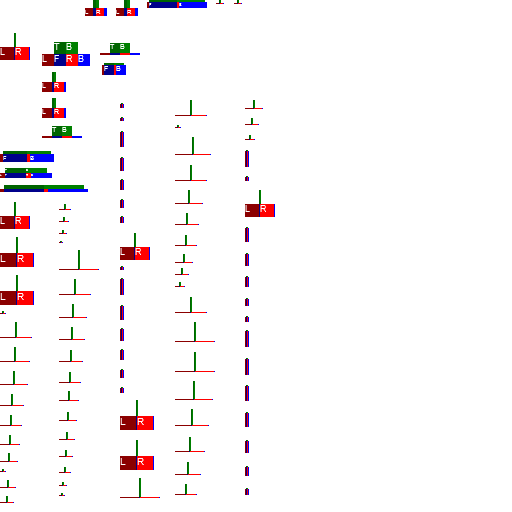
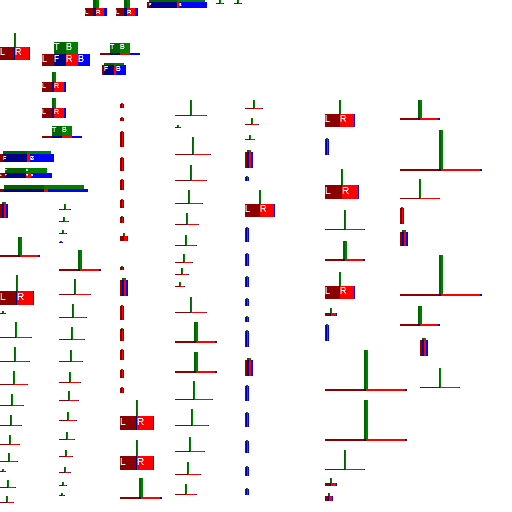
Interceptor final model

diff --git a/techne/TIE Interceptor.java b/techne/TIE Interceptor.java
@@ -1,4 +1,4 @@
-// Date: 11/24/2015 5:37:18 PM
+// Date: 11/24/2015 10:18:17 PM
 // Template version 1.1
 // Java generated by Techne
 // Keep in mind that you still need to fill in some blanks
@@ -114,6 +114,28 @@ public class ModelNew extends ModelBase
     ModelRenderer Wing_Section_83;
     ModelRenderer Wing_Section_84;
     ModelRenderer Wing_Section_85;
+    ModelRenderer Wing_Section_86;
+    ModelRenderer Wing_Section_87;
+    ModelRenderer Wing_Section_88;
+    ModelRenderer Wing_Section_89;
+    ModelRenderer Wing_Section_90;
+    ModelRenderer Wing_Section_91;
+    ModelRenderer Wing_Section_92;
+    ModelRenderer Wing_Section_93;
+    ModelRenderer Wing_Section_94;
+    ModelRenderer Wing_Section_95;
+    ModelRenderer Wing_Section_96;
+    ModelRenderer Wing_Section_97;
+    ModelRenderer Wing_Section_98;
+    ModelRenderer Wing_Section_99;
+    ModelRenderer Wing_Section_100;
+    ModelRenderer Wing_Section_101;
+    ModelRenderer Wing_Section_102;
+    ModelRenderer Wing_Section_103;
+    ModelRenderer Wing_Section_104;
+    ModelRenderer Wing_Section_105;
+    ModelRenderer Wing_Section_106;
+    ModelRenderer Wing_Section_107;
   
   public ModelNew()
   {
@@ -211,17 +233,17 @@ public class ModelNew extends ModelBase
       Body_Panel_9.mirror = true;
       setRotation(Body_Panel_9, 0F, 0F, 0F);
       Wing_Section_1 = new ModelRenderer(this, 0, 202);
-      Wing_Section_1.addBox(-19.3F, -22.5F, -5F, 1, 13, 14);
+      Wing_Section_1.addBox(17.65F, -23F, 8F, 2, 14, 2);
       Wing_Section_1.setRotationPoint(0F, 22F, 0F);
       Wing_Section_1.setTextureSize(64, 32);
       Wing_Section_1.mirror = true;
       setRotation(Wing_Section_1, 0F, 0F, 0F);
       Wing_Section_2 = new ModelRenderer(this, 0, 237);
-      Wing_Section_2.addBox(-28.55F, -21.1F, -15F, 1, 14, 16);
+      Wing_Section_2.addBox(27.1F, -21.6F, -16F, 2, 2, 18);
       Wing_Section_2.setRotationPoint(0F, 22F, 0F);
       Wing_Section_2.setTextureSize(64, 32);
       Wing_Section_2.mirror = true;
-      setRotation(Wing_Section_2, 0F, 0F, 0.6283185F);
+      setRotation(Wing_Section_2, 0F, 0F, -0.6283185F);
       Wing_Section_3 = new ModelRenderer(this, 0, 275);
       Wing_Section_3.addBox(-9.875F, -18.8F, -15F, 1, 14, 16);
       Wing_Section_3.setRotationPoint(0F, 22F, 0F);
@@ -319,7 +341,7 @@ public class ModelNew extends ModelBase
       Wing_Section_18.mirror = true;
       setRotation(Wing_Section_18, 0F, 0F, -0.6283185F);
       Wing_Section_19 = new ModelRenderer(this, 59, 250);
-      Wing_Section_19.addBox(-9.875F, 5.65F, -33.25F, 1, 1, 19);
+      Wing_Section_19.addBox(-10.4F, 5.5F, -33.7F, 2, 2, 19);
       Wing_Section_19.setRotationPoint(0F, 22F, 0F);
       Wing_Section_19.setTextureSize(64, 32);
       Wing_Section_19.mirror = true;
@@ -439,7 +461,7 @@ public class ModelNew extends ModelBase
       Wing_Section_38.mirror = true;
       setRotation(Wing_Section_38, 0.5279621F, 0F, 0.6283185F);
       Wing_Section_39 = new ModelRenderer(this, 120, 233);
-      Wing_Section_39.addBox(-19F, -22.5F, -5F, 1, 13, 14);
+      Wing_Section_39.addBox(18.15F, -18.5F, -9F, 1, 5, 3);
       Wing_Section_39.setRotationPoint(0F, 22F, 0F);
       Wing_Section_39.setTextureSize(64, 32);
       Wing_Section_39.mirror = true;
@@ -451,7 +473,7 @@ public class ModelNew extends ModelBase
       Wing_Section_40.mirror = true;
       setRotation(Wing_Section_40, -0.5279621F, 0F, 0.6283185F);
       Wing_Section_41 = new ModelRenderer(this, 120, 278);
-      Wing_Section_41.addBox(-9.875F, -20.7F, -2.525F, 1, 16, 1);
+      Wing_Section_41.addBox(-10.4F, -21F, -2.6F, 2, 16, 2);
       Wing_Section_41.setRotationPoint(0F, 22F, 0F);
       Wing_Section_41.setTextureSize(64, 32);
       Wing_Section_41.mirror = true;
@@ -499,7 +521,7 @@ public class ModelNew extends ModelBase
       Wing_Section_48.mirror = true;
       setRotation(Wing_Section_48, 0F, 0F, -0.6283185F);
       Wing_Section_49 = new ModelRenderer(this, 120, 478);
-      Wing_Section_49.addBox(-28.55F, -25.635F, -15.6F, 1, 1, 19);
+      Wing_Section_49.addBox(-29.1F, -26.635F, -15.9F, 2, 2, 19);
       Wing_Section_49.setRotationPoint(0F, 22F, 0F);
       Wing_Section_49.setTextureSize(64, 32);
       Wing_Section_49.mirror = true;
@@ -571,13 +593,13 @@ public class ModelNew extends ModelBase
       Wing_Section_60.mirror = true;
       setRotation(Wing_Section_60, 0F, 0F, 0.6283185F);
       Wing_Section_61 = new ModelRenderer(this, 175, 322);
-      Wing_Section_61.addBox(8.85F, 5.65F, -33.2F, 1, 1, 19);
+      Wing_Section_61.addBox(8.35F, 5.5F, -33.8F, 2, 2, 19);
       Wing_Section_61.setRotationPoint(0F, 22F, 0F);
       Wing_Section_61.setTextureSize(64, 32);
       Wing_Section_61.mirror = true;
       setRotation(Wing_Section_61, -0.7548549F, 0F, 0.6283185F);
       Wing_Section_62 = new ModelRenderer(this, 175, 352);
-      Wing_Section_62.addBox(27.6F, -25.6F, -15.55F, 1, 1, 19);
+      Wing_Section_62.addBox(27.1F, -26.6F, -15.9F, 2, 2, 19);
       Wing_Section_62.setRotationPoint(0F, 22F, 0F);
       Wing_Section_62.setTextureSize(64, 32);
       Wing_Section_62.mirror = true;
@@ -631,11 +653,11 @@ public class ModelNew extends ModelBase
       Wing_Section_70.mirror = true;
       setRotation(Wing_Section_70, 0.7548549F, 0F, -0.6283185F);
       Wing_Section_71 = new ModelRenderer(this, 245, 150);
-      Wing_Section_71.addBox(-28.55F, -17.75F, 10.5F, 1, 16, 1);
+      Wing_Section_71.addBox(8.35F, -21F, -2.6F, 2, 16, 2);
       Wing_Section_71.setRotationPoint(0F, 22F, 0F);
       Wing_Section_71.setTextureSize(64, 32);
       Wing_Section_71.mirror = true;
-      setRotation(Wing_Section_71, 0.5279621F, 0F, 0.6283185F);
+      setRotation(Wing_Section_71, -0.5279621F, 0F, 0.6283185F);
       Wing_Section_72 = new ModelRenderer(this, 245, 176);
       Wing_Section_72.addBox(27.6F, -9.1F, 4.45F, 1, 4, 1);
       Wing_Section_72.setRotationPoint(0F, 22F, 0F);
@@ -685,7 +707,7 @@ public class ModelNew extends ModelBase
       Wing_Section_79.mirror = true;
       setRotation(Wing_Section_79, -0.5279621F, 0F, 0.6283185F);
       Wing_Section_80 = new ModelRenderer(this, 245, 358);
-      Wing_Section_80.addBox(27.6F, -17.75F, 10.45F, 1, 16, 1);
+      Wing_Section_80.addBox(27.1F, -17.75F, 10.45F, 2, 16, 2);
       Wing_Section_80.setRotationPoint(0F, 22F, 0F);
       Wing_Section_80.setTextureSize(64, 32);
       Wing_Section_80.mirror = true;
@@ -720,6 +742,138 @@ public class ModelNew extends ModelBase
       Wing_Section_85.setTextureSize(64, 32);
       Wing_Section_85.mirror = true;
       setRotation(Wing_Section_85, 0.5279621F, 0F, -0.6283185F);
+      Wing_Section_86 = new ModelRenderer(this, 325, 100);
+      Wing_Section_86.addBox(-19.3F, -22.5F, -5F, 1, 13, 14);
+      Wing_Section_86.setRotationPoint(0F, 22F, 0F);
+      Wing_Section_86.setTextureSize(64, 32);
+      Wing_Section_86.mirror = true;
+      setRotation(Wing_Section_86, 0F, 0F, 0F);
+      Wing_Section_87 = new ModelRenderer(this, 325, 138);
+      Wing_Section_87.addBox(-28.55F, -17.75F, 10.5F, 1, 16, 1);
+      Wing_Section_87.setRotationPoint(0F, 22F, 0F);
+      Wing_Section_87.setTextureSize(64, 32);
+      Wing_Section_87.mirror = true;
+      setRotation(Wing_Section_87, 0.5279621F, 0F, 0.6283185F);
+      Wing_Section_88 = new ModelRenderer(this, 325, 169);
+      Wing_Section_88.addBox(-28.55F, -21.1F, -15F, 1, 14, 16);
+      Wing_Section_88.setRotationPoint(0F, 22F, 0F);
+      Wing_Section_88.setTextureSize(64, 32);
+      Wing_Section_88.mirror = true;
+      setRotation(Wing_Section_88, 0F, 0F, 0.6283185F);
+      Wing_Section_89 = new ModelRenderer(this, 325, 210);
+      Wing_Section_89.addBox(-28.55F, -25.635F, -15.6F, 1, 1, 19);
+      Wing_Section_89.setRotationPoint(0F, 22F, 0F);
+      Wing_Section_89.setTextureSize(64, 32);
+      Wing_Section_89.mirror = true;
+      setRotation(Wing_Section_89, 0.7548549F, 0F, 0.6283185F);
+      Wing_Section_90 = new ModelRenderer(this, 325, 241);
+      Wing_Section_90.addBox(8.35F, -6.6F, -16F, 2, 2, 18);
+      Wing_Section_90.setRotationPoint(0F, 22F, 0F);
+      Wing_Section_90.setTextureSize(64, 32);
+      Wing_Section_90.mirror = true;
+      setRotation(Wing_Section_90, 0F, 0F, 0.6283185F);
+      Wing_Section_91 = new ModelRenderer(this, 325, 272);
+      Wing_Section_91.addBox(-19F, -22.5F, -5F, 1, 13, 14);
+      Wing_Section_91.setRotationPoint(0F, 22F, 0F);
+      Wing_Section_91.setTextureSize(64, 32);
+      Wing_Section_91.mirror = true;
+      setRotation(Wing_Section_91, 0F, 0F, 0F);
+      Wing_Section_92 = new ModelRenderer(this, 325, 308);
+      Wing_Section_92.addBox(18.15F, -17.5F, -7F, 1, 3, 5);
+      Wing_Section_92.setRotationPoint(0F, 22F, 0F);
+      Wing_Section_92.setTextureSize(64, 32);
+      Wing_Section_92.mirror = true;
+      setRotation(Wing_Section_92, 0F, 0F, 0F);
+      Wing_Section_93 = new ModelRenderer(this, 325, 324);
+      Wing_Section_93.addBox(-9.875F, -20.7F, -2.525F, 1, 16, 1);
+      Wing_Section_93.setRotationPoint(0F, 22F, 0F);
+      Wing_Section_93.setTextureSize(64, 32);
+      Wing_Section_93.mirror = true;
+      setRotation(Wing_Section_93, -0.5279621F, 0F, -0.6283185F);
+      Wing_Section_94 = new ModelRenderer(this, 325, 350);
+      Wing_Section_94.addBox(-29.1F, -8.6F, -29.8F, 2, 2, 39);
+      Wing_Section_94.setRotationPoint(0F, 22F, 0F);
+      Wing_Section_94.setTextureSize(64, 32);
+      Wing_Section_94.mirror = true;
+      setRotation(Wing_Section_94, 0F, 0F, 0.6283185F);
+      Wing_Section_95 = new ModelRenderer(this, 325, 400);
+      Wing_Section_95.addBox(8.35F, -19.6F, -29.8F, 2, 2, 39);
+      Wing_Section_95.setRotationPoint(0F, 22F, 0F);
+      Wing_Section_95.setTextureSize(64, 32);
+      Wing_Section_95.mirror = true;
+      setRotation(Wing_Section_95, 0F, 0F, 0.6283185F);
+      Wing_Section_96 = new ModelRenderer(this, 325, 450);
+      Wing_Section_96.addBox(-9.875F, 5.65F, -33.25F, 1, 1, 19);
+      Wing_Section_96.setRotationPoint(0F, 22F, 0F);
+      Wing_Section_96.setTextureSize(64, 32);
+      Wing_Section_96.mirror = true;
+      setRotation(Wing_Section_96, -0.7548549F, 0F, -0.6283185F);
+      Wing_Section_97 = new ModelRenderer(this, 325, 478);
+      Wing_Section_97.addBox(-19.15F, -17.5F, -7F, 1, 3, 5);
+      Wing_Section_97.setRotationPoint(0F, 22F, 0F);
+      Wing_Section_97.setTextureSize(64, 32);
+      Wing_Section_97.mirror = true;
+      setRotation(Wing_Section_97, 0F, 0F, 0F);
+      Wing_Section_98 = new ModelRenderer(this, 325, 493);
+      Wing_Section_98.addBox(-19.15F, -18.5F, -9F, 1, 5, 3);
+      Wing_Section_98.setRotationPoint(0F, 22F, 0F);
+      Wing_Section_98.setTextureSize(64, 32);
+      Wing_Section_98.mirror = true;
+      setRotation(Wing_Section_98, 0F, 0F, 0F);
+      Wing_Section_99 = new ModelRenderer(this, 400, 100);
+      Wing_Section_99.addBox(-10.4F, -6.6F, -16F, 2, 2, 18);
+      Wing_Section_99.setRotationPoint(0F, 22F, 0F);
+      Wing_Section_99.setTextureSize(64, 32);
+      Wing_Section_99.mirror = true;
+      setRotation(Wing_Section_99, 0F, 0F, -0.6283185F);
+      Wing_Section_100 = new ModelRenderer(this, 400, 130);
+      Wing_Section_100.addBox(-10.4F, -19.6F, -29.8F, 2, 2, 39);
+      Wing_Section_100.setRotationPoint(0F, 22F, 0F);
+      Wing_Section_100.setTextureSize(64, 32);
+      Wing_Section_100.mirror = true;
+      setRotation(Wing_Section_100, 0F, 0F, -0.6283185F);
+      Wing_Section_101 = new ModelRenderer(this, 400, 179);
+      Wing_Section_101.addBox(27.6F, -25.6F, -15.55F, 1, 1, 19);
+      Wing_Section_101.setRotationPoint(0F, 22F, 0F);
+      Wing_Section_101.setTextureSize(64, 32);
+      Wing_Section_101.mirror = true;
+      setRotation(Wing_Section_101, 0.7548549F, 0F, -0.6283185F);
+      Wing_Section_102 = new ModelRenderer(this, 400, 207);
+      Wing_Section_102.addBox(27.6F, -17.75F, 10.45F, 1, 16, 1);
+      Wing_Section_102.setRotationPoint(0F, 22F, 0F);
+      Wing_Section_102.setTextureSize(64, 32);
+      Wing_Section_102.mirror = true;
+      setRotation(Wing_Section_102, 0.5279621F, 0F, -0.6283185F);
+      Wing_Section_103 = new ModelRenderer(this, 400, 230);
+      Wing_Section_103.addBox(-19.6F, -23F, 8F, 2, 14, 2);
+      Wing_Section_103.setRotationPoint(0F, 22F, 0F);
+      Wing_Section_103.setTextureSize(64, 32);
+      Wing_Section_103.mirror = true;
+      setRotation(Wing_Section_103, 0F, 0F, 0F);
+      Wing_Section_104 = new ModelRenderer(this, 400, 255);
+      Wing_Section_104.addBox(27.1F, -8.6F, -29.8F, 2, 2, 39);
+      Wing_Section_104.setRotationPoint(0F, 22F, 0F);
+      Wing_Section_104.setTextureSize(64, 32);
+      Wing_Section_104.mirror = true;
+      setRotation(Wing_Section_104, 0F, 0F, -0.6283185F);
+      Wing_Section_105 = new ModelRenderer(this, 400, 306);
+      Wing_Section_105.addBox(-29.1F, -21.6F, -16F, 2, 2, 18);
+      Wing_Section_105.setRotationPoint(0F, 22F, 0F);
+      Wing_Section_105.setTextureSize(64, 32);
+      Wing_Section_105.mirror = true;
+      setRotation(Wing_Section_105, 0F, 0F, 0.6283185F);
+      Wing_Section_106 = new ModelRenderer(this, 420, 338);
+      Wing_Section_106.addBox(-29.1F, -17.75F, 10.5F, 2, 16, 2);
+      Wing_Section_106.setRotationPoint(0F, 22F, 0F);
+      Wing_Section_106.setTextureSize(64, 32);
+      Wing_Section_106.mirror = true;
+      setRotation(Wing_Section_106, 0.5279621F, 0F, 0.6283185F);
+      Wing_Section_107 = new ModelRenderer(this, 420, 368);
+      Wing_Section_107.addBox(8.85F, 5.65F, -33.2F, 1, 1, 19);
+      Wing_Section_107.setRotationPoint(0F, 22F, 0F);
+      Wing_Section_107.setTextureSize(64, 32);
+      Wing_Section_107.mirror = true;
+      setRotation(Wing_Section_107, -0.7548549F, 0F, 0.6283185F);
   }
   
   public void render(Entity entity, float f, float f1, float f2, float f3, float f4, float f5)
@@ -826,6 +980,28 @@ public class ModelNew extends ModelBase
     Wing_Section_83.render(f5);
     Wing_Section_84.render(f5);
     Wing_Section_85.render(f5);
+    Wing_Section_86.render(f5);
+    Wing_Section_87.render(f5);
+    Wing_Section_88.render(f5);
+    Wing_Section_89.render(f5);
+    Wing_Section_90.render(f5);
+    Wing_Section_91.render(f5);
+    Wing_Section_92.render(f5);
+    Wing_Section_93.render(f5);
+    Wing_Section_94.render(f5);
+    Wing_Section_95.render(f5);
+    Wing_Section_96.render(f5);
+    Wing_Section_97.render(f5);
+    Wing_Section_98.render(f5);
+    Wing_Section_99.render(f5);
+    Wing_Section_100.render(f5);
+    Wing_Section_101.render(f5);
+    Wing_Section_102.render(f5);
+    Wing_Section_103.render(f5);
+    Wing_Section_104.render(f5);
+    Wing_Section_105.render(f5);
+    Wing_Section_106.render(f5);
+    Wing_Section_107.render(f5);
   }
   
   private void setRotation(ModelRenderer model, float x, float y, float z)
